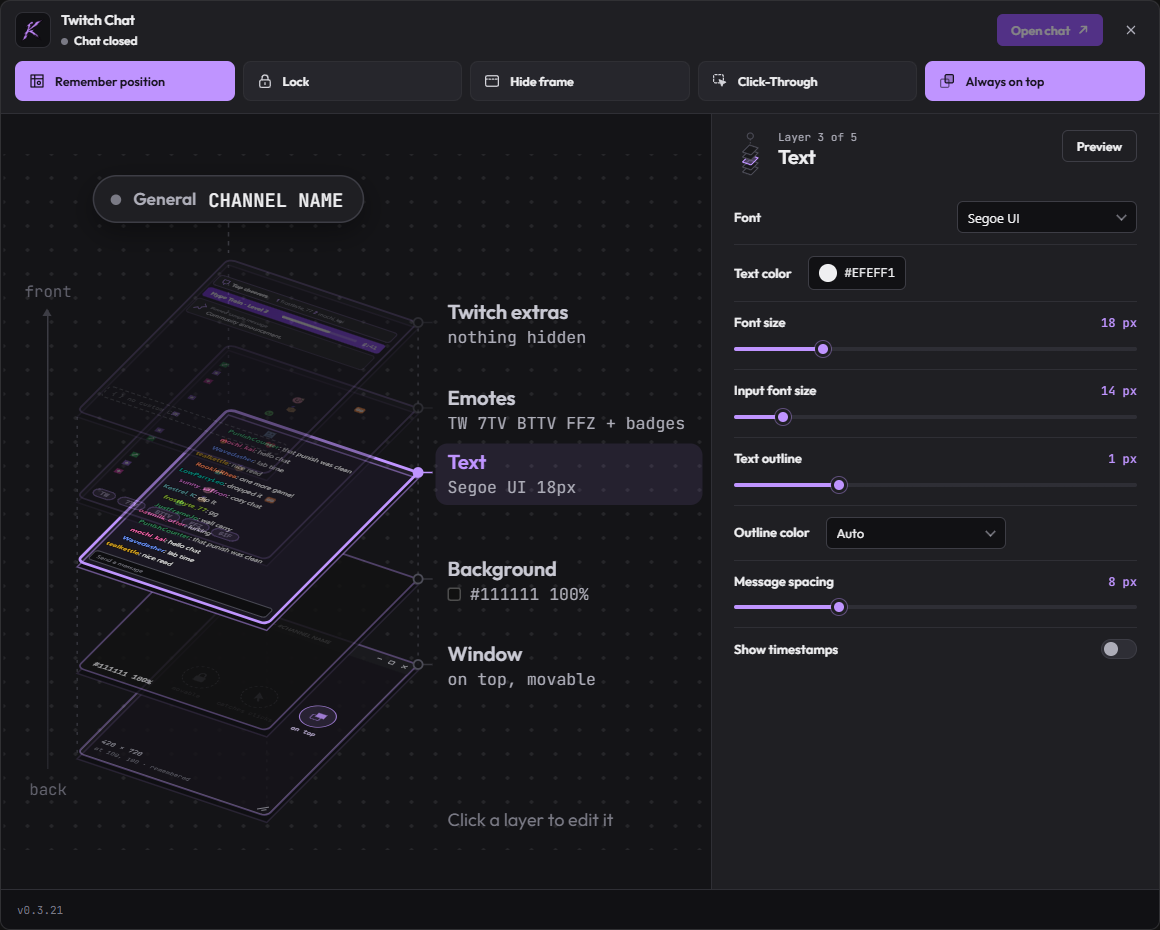
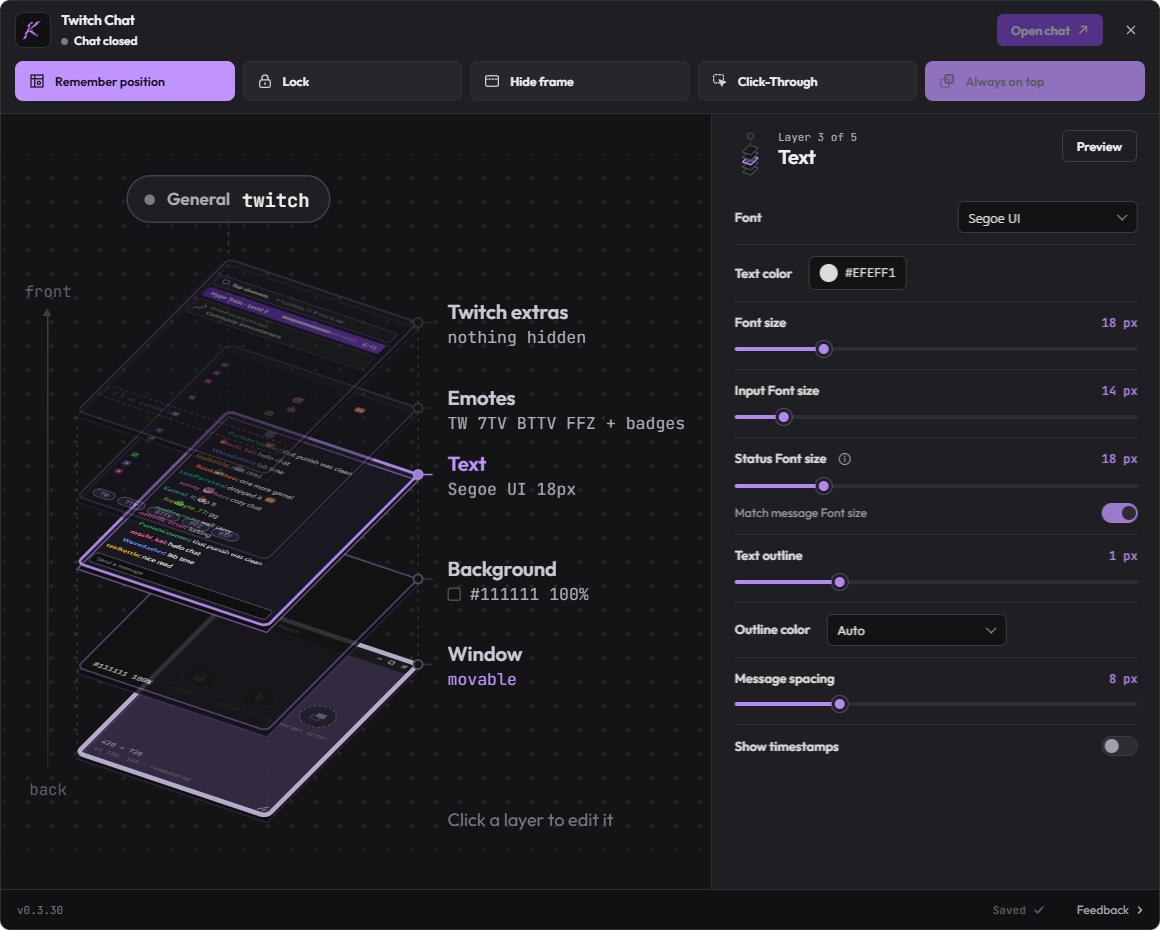
Publish Twitch Chat 0.3.30 download page

diff --git a/README.md b/README.md
@@ -28,4 +28,6 @@ Choose **Quit** from the tray, then uninstall **Twitch Chat** in Windows Setting
 
 ## Feedback
 
+Use **Help & feedback** in General or **Feedback** at the bottom right of Settings to choose a form.
+
 [Report a bug](https://github.com/KominoStyle/twitch-chat-installer/issues/new?template=01-bug-report.yml) · [Request a feature](https://github.com/KominoStyle/twitch-chat-installer/issues/new?template=02-feature-request.yml) · [Suggest an improvement](https://github.com/KominoStyle/twitch-chat-installer/issues/new?template=03-improvement-suggestion.yml)
